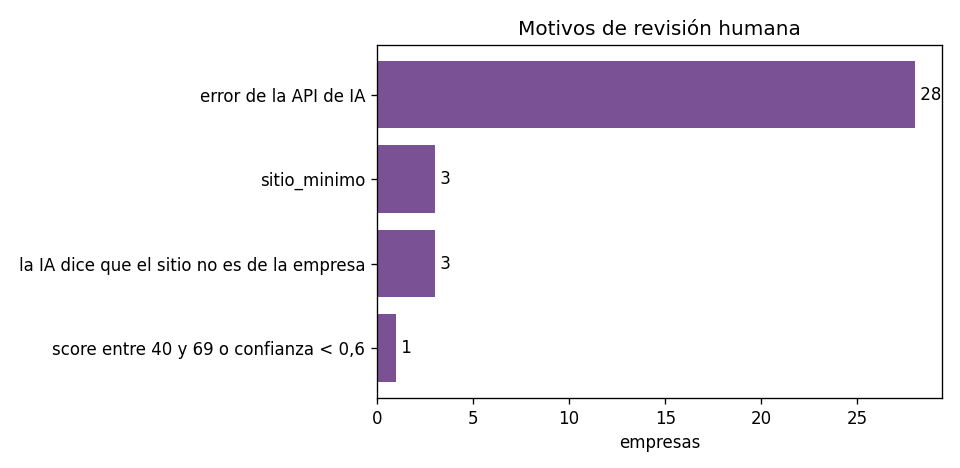
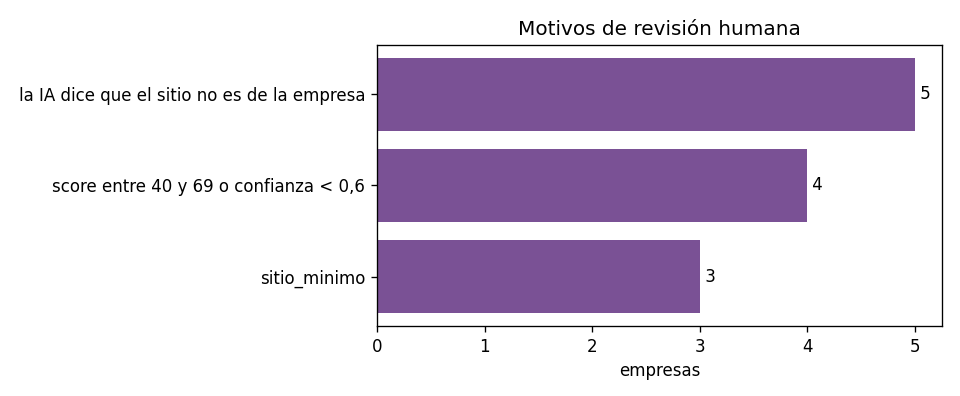
Calificación completa con IA: 23 calificadas de 35 con sitio verificado

diff --git a/analysis/output/reporte.md b/analysis/output/reporte.md
@@ -1,6 +1,6 @@
 # Reporte de métricas del pipeline
 
-Generado desde 234 empresas y 25 corridas exportadas de n8n. Solo cifras agregadas.
+Generado desde 234 empresas y 28 corridas exportadas de n8n. Solo cifras agregadas.
 
 ## Embudo
 
@@ -9,7 +9,7 @@ Generado desde 234 empresas y 25 corridas exportadas de n8n. Solo cifras agregad
 | ingestadas | 234 |
 | con dominio verificado | 36 |
 | calificadas por IA | 35 |
-| calificadas (score >= 70) | 0 |
+| calificadas (score >= 70) | 23 |
 
 ![Embudo](embudo.png)
 
@@ -18,16 +18,17 @@ Generado desde 234 empresas y 25 corridas exportadas de n8n. Solo cifras agregad
 | estado | empresas |
 |---|---|
 | sin_dominio | 199 |
-| revision | 35 |
+| calificada | 23 |
+| revision | 12 |
 
 ## Rubros (IA)
 
 | rubro | empresas | score_promedio |
 |---|---|---|
-| otro | 32 | 64.4 |
-| salud | 1 | 75 |
-| saas_tecnologia | 1 | 49 |
-| retail_ecommerce | 1 | 55 |
+| salud | 25 | 88.8 |
+| otro | 6 | 51.7 |
+| saas_tecnologia | 2 | 57 |
+| retail_ecommerce | 2 | 70 |
 | fintech_seguros | 1 | 55 |
 
 ![Rubros (IA)](por_rubro.png)
@@ -36,8 +37,8 @@ Generado desde 234 empresas y 25 corridas exportadas de n8n. Solo cifras agregad
 
 | tramo | empresas |
 |---|---|
-| 70-100 | 12 |
-| 40-69 | 23 |
+| 70-100 | 24 |
+| 40-69 | 11 |
 | 0-39 | 1 |
 
 ![Distribución del score](distribucion_score.png)
@@ -46,10 +47,9 @@ Generado desde 234 empresas y 25 corridas exportadas de n8n. Solo cifras agregad
 
 | causa | empresas |
 |---|---|
-| error de la API de IA | 28 |
+| la IA dice que el sitio no es de la empresa | 5 |
+| score entre 40 y 69 o confianza < 0,6 | 4 |
 | sitio_minimo | 3 |
-| la IA dice que el sitio no es de la empresa | 3 |
-| score entre 40 y 69 o confianza < 0,6 | 1 |
 
 ![Motivos de revisión humana](motivos_revision.png)
 
@@ -88,6 +88,9 @@ Generado desde 234 empresas y 25 corridas exportadas de n8n. Solo cifras agregad
 | run-20261007-183708 | calificacion | 35 |  |  |  |  |  | 0 | 35 | 0 | 35 | 679.5 |
 | run-20261007-194800 | calificacion | 34 |  |  |  |  |  | 0 | 34 | 0 | 33 | 674.7 |
 | run-20261008-134547 | calificacion | 33 |  |  |  |  |  | 0 | 33 | 0 | 33 | 1006.3 |
+| run-20261009-124741 | calificacion | 28 |  |  |  |  |  | 12 | 16 | 0 | 13 | 907.4 |
+| run-20261010-134650 | calificacion | 11 |  |  |  |  |  | 9 | 2 | 0 | 4 | 223.8 |
+| run-20261011-213550 | calificacion | 2 |  |  |  |  |  | 2 | 0 | 0 | 0 | 97.8 |
 
 ## Duplicados en la ingesta
 
@@ -99,7 +102,7 @@ Generado desde 234 empresas y 25 corridas exportadas de n8n. Solo cifras agregad
 
 | origen | empresas | con_dominio | pct_dominio | medianas_o_grandes_sii | calificadas | en_revision |
 |---|---|---|---|---|---|---|
-| Registro de Empresas y Sociedades (fase 1) | 200 | 13 | 6.5 | 7 | 0 | 12 |
-| Superintendencia de Salud | 34 | 23 | 67.6 | 31 | 0 | 23 |
+| Registro de Empresas y Sociedades (fase 1) | 200 | 13 | 6.5 | 7 | 1 | 11 |
+| Superintendencia de Salud | 34 | 23 | 67.6 | 31 | 22 | 1 |
 
 ![Fase 1 vs fase 2: rendimiento por fuente](comparacion_fuentes.png)

diff --git a/README.md b/README.md
@@ -50,12 +50,12 @@ La fase 1 partía del Registro de Empresas y Sociedades y solo 6,5 % de las empr
 
 **Resultado del cambio de fuente** (misma lógica de B, C y D):
 
-| Fuente | Empresas | Con sitio verificado | Medianas o grandes según el SII |
-|---|---|---|---|
-| Registro de Empresas y Sociedades (fase 1) | 200 | 13 (**6,5 %**) | 7 |
-| Superintendencia de Salud (fase 2) | 34 | 23 (**67,6 %**) | 31 |
+| Fuente | Empresas | Con sitio verificado | Medianas o grandes según el SII | Calificadas (score ≥ 70) |
+|---|---|---|---|---|
+| Registro de Empresas y Sociedades (fase 1) | 200 | 13 (**6,5 %**) | 7 | 1 |
+| Superintendencia de Salud (fase 2) | 34 | 23 (**67,6 %**) | 31 | **22** |
 
-Con la fuente correcta, 10 veces más empresas llegan a la etapa de IA y casi todas tienen un tamaño que justifica un contacto comercial. La lección: en prospección, elegir bien la fuente rinde más que afinar el modelo.
+Con la fuente correcta, 10 veces más empresas llegan a la etapa de IA, casi todas tienen un tamaño que justifica un contacto comercial y 22 de 23 terminan calificadas (con motivo y URL de evidencia citados por la IA). La lección: en prospección, elegir bien la fuente rinde más que afinar el modelo.
 
 **CMF (registro fintech):** el listado público funciona desde un navegador, pero a las solicitudes automatizadas de n8n la CMF responde con un desafío anti-bots. No se intentó evadirlo; la vía correcta es pedir el listado por sus canales oficiales o por Ley de Transparencia.
 
